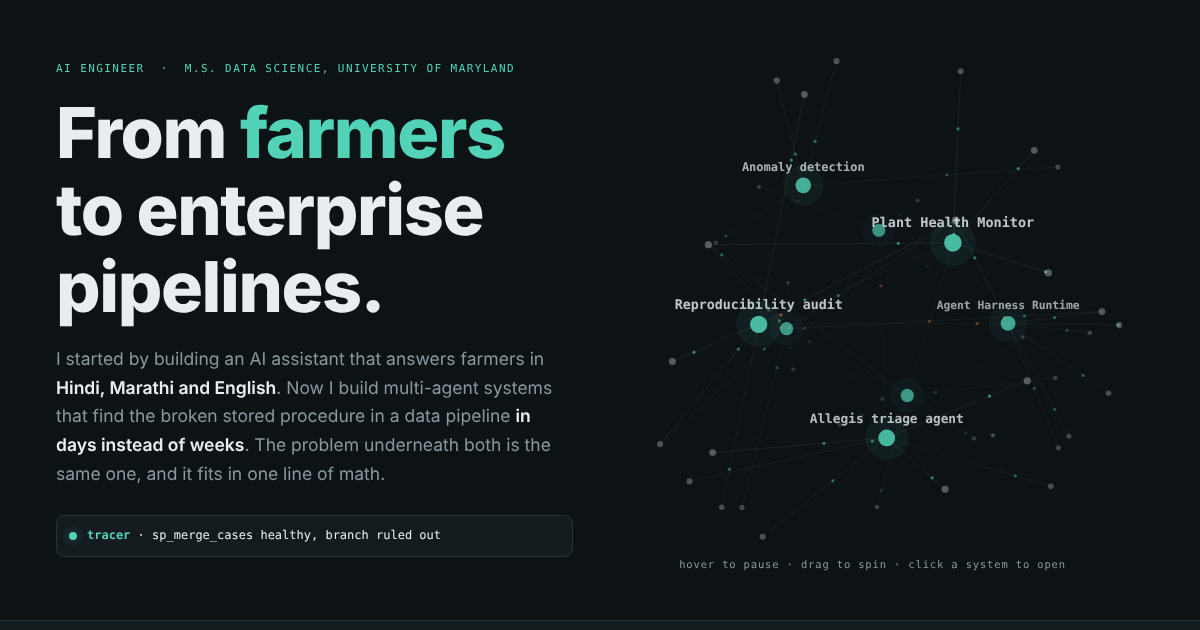
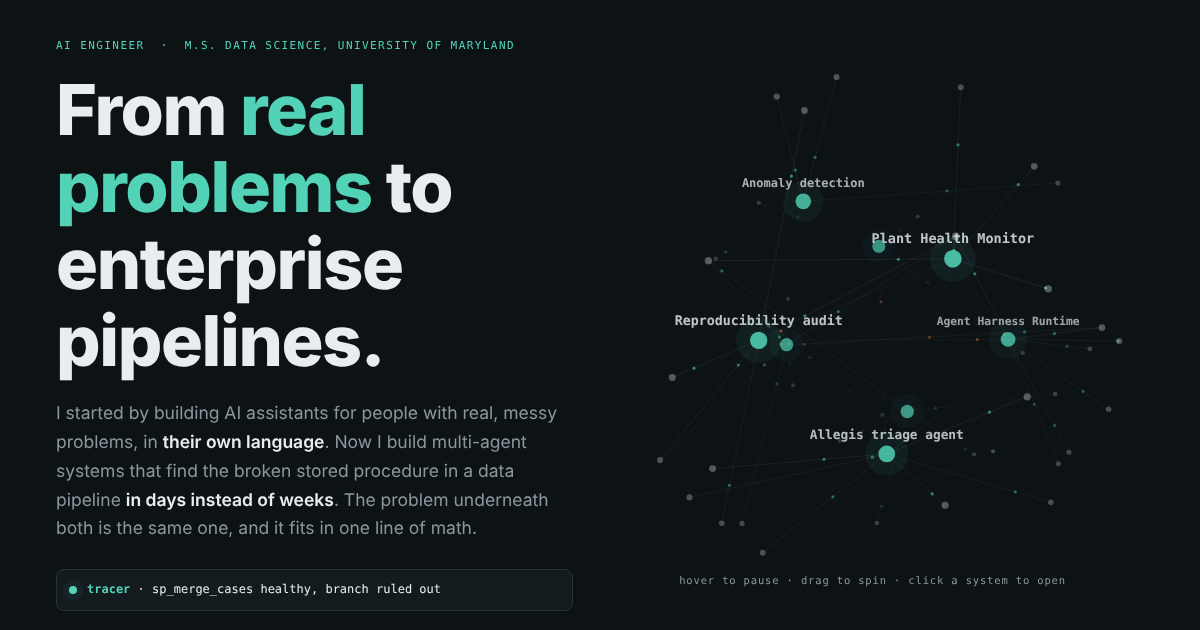
Broaden intro headline

diff --git a/index.html b/index.html
@@ -3,9 +3,9 @@
 <head>
 <meta charset="utf-8">
 <meta name="viewport" content="width=device-width, initial-scale=1, viewport-fit=cover">
-<meta name="description" content="Dhruv Dubey, AI Engineer. Agentic LLM systems that survive production: multi-agent triage, crash-safe agent harnesses, RAG for farmers.">
+<meta name="description" content="Dhruv Dubey, AI Engineer. Agentic LLM systems that survive production: multi-agent triage, crash-safe agent harnesses, RAG for real users.">
 <meta property="og:title" content="Dhruv Dubey, AI Engineer">
-<meta property="og:description" content="From farmers to enterprise pipelines. Break a pipeline and watch the triage agent find it.">
+<meta property="og:description" content="From real problems to enterprise pipelines. Break a pipeline and watch the triage agent find it.">
 <meta property="og:type" content="website">
 <meta property="og:url" content="https://dhruvdubey3123.github.io/">
 <meta property="og:image" content="https://dhruvdubey3123.github.io/og.png">
@@ -323,8 +323,8 @@ footer{padding-block:24px 40px; font-family:var(--mono); font-size:11.5px; color
   <div class="hero-grid">
     <div>
       <div class="lbl">AI Engineer &nbsp;·&nbsp; M.S. Data Science, University of Maryland</div>
-      <h1 style="margin-top:16px">From <em>farmers</em> to enterprise pipelines.</h1>
-      <p class="sub">I started by building an AI assistant that answers farmers in <b>Hindi, Marathi and English</b>. Now I build multi-agent systems that find the broken stored procedure in a data pipeline <b>in days instead of weeks</b>. The problem underneath both is the same one, and it fits in one line of math.</p>
+      <h1 style="margin-top:16px">From <em>real problems</em> to enterprise pipelines.</h1>
+      <p class="sub">I started by building AI assistants for people with real, messy problems, in <b>their own language</b>. Now I build multi-agent systems that find the broken stored procedure in a data pipeline <b>in days instead of weeks</b>. The problem underneath both is the same one, and it fits in one line of math.</p>
       <div class="chips">
         <a class="chip primary" href="#triage">Break a pipeline, watch the agent</a>
         <a class="chip" href="resume.pdf">Resume (PDF)</a>
